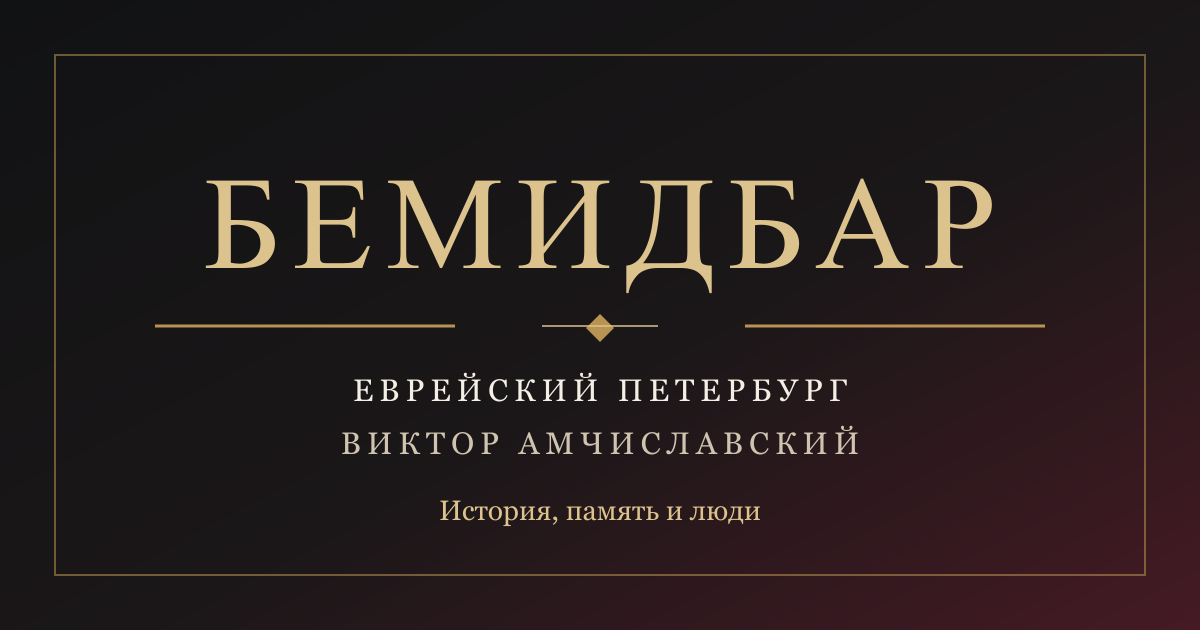
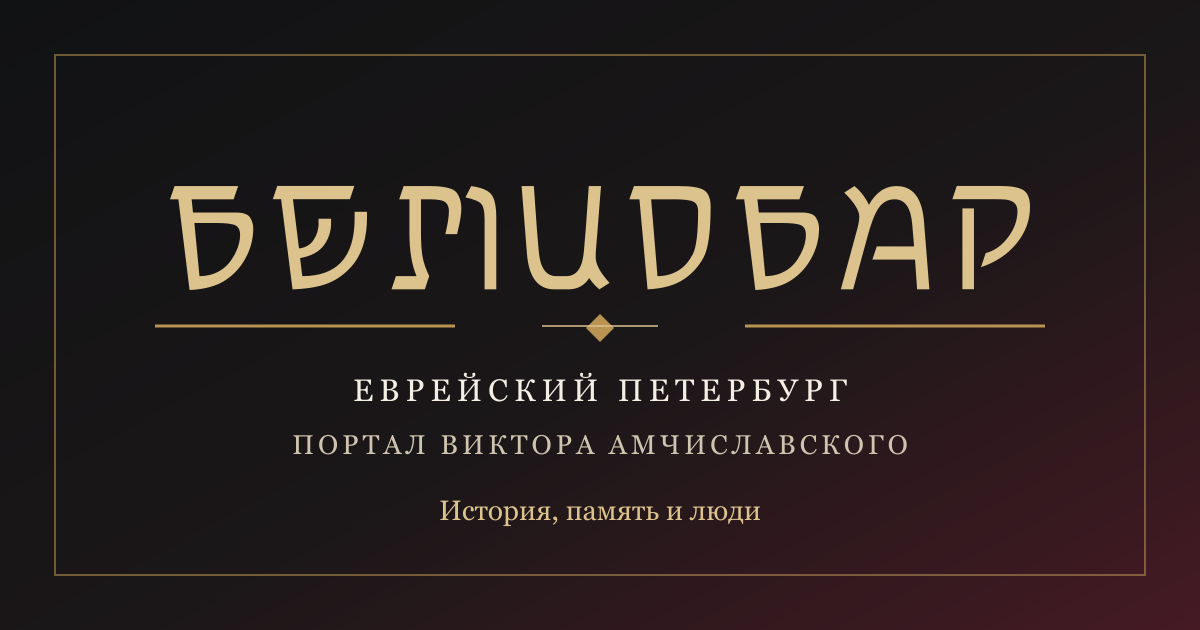
Fix production hero visual QA

Changed region(s): [[0.1233, 0.2714, 0.8633, 0.4825], [0.2467, 0.6635, 0.7708, 0.7238]]

diff --git a/app/globals.css b/app/globals.css
@@ -3182,3 +3182,243 @@ main {
     font-size: 0.92rem;
   }
 }
+
+/* Final production hierarchy and photo safety */
+.site-header {
+  width: min(100%, 1480px);
+  grid-template-columns: minmax(12rem, 17rem) minmax(0, 1fr) auto;
+  gap: 0.8rem;
+  padding: 0.38rem 1.15rem;
+  background: rgba(15, 15, 18, 0.42);
+  border-bottom-color: rgba(220, 194, 141, 0.12);
+  backdrop-filter: blur(12px);
+}
+
+.bemidbar-logo-header {
+  width: min(13.25rem, 34vw);
+}
+
+.nav {
+  gap: 0.38rem;
+}
+
+.nav a {
+  font-size: 0.84rem;
+}
+
+.header-socials {
+  gap: 0.35rem;
+}
+
+.header-socials a,
+.header-socials button {
+  width: 1.82rem;
+  height: 1.82rem;
+}
+
+.hero {
+  grid-template-columns: minmax(0, 42%) minmax(0, 58%);
+  min-height: min(43.5rem, 84vh);
+  padding-top: 8.2rem;
+  padding-bottom: 4.4rem;
+  background: var(--graphite);
+}
+
+.hero::before {
+  background:
+    linear-gradient(90deg, rgba(17, 18, 20, 0.98) 0%, rgba(17, 18, 20, 0.88) 36%, rgba(17, 18, 20, 0.34) 64%, rgba(17, 18, 20, 0.08) 100%),
+    linear-gradient(180deg, rgba(17, 18, 20, 0.34) 0%, transparent 34%, rgba(17, 18, 20, 0.68) 100%);
+}
+
+.hero-media {
+  display: flex;
+  justify-content: flex-end;
+  background: radial-gradient(circle at 78% 42%, rgba(220, 194, 141, 0.18), transparent 32rem);
+}
+
+.hero-media img {
+  object-fit: contain;
+  object-position: center right;
+  padding: 5.4rem 0 2.2rem 34%;
+  filter: grayscale(0.78) sepia(0.28) contrast(0.98) brightness(0.86);
+}
+
+.hero-copy {
+  max-width: 34rem;
+  padding-top: 1rem;
+}
+
+.hero h1:not(.hero-wordmark) {
+  max-width: 14.5ch;
+  color: var(--ivory);
+  font-size: clamp(3.75rem, 5.7vw, 5.85rem);
+  line-height: 0.94;
+  white-space: normal;
+  word-break: normal;
+  overflow-wrap: normal;
+  hyphens: none;
+}
+
+.hero-subline {
+  margin-top: 1.1rem;
+}
+
+.floating-cta {
+  position: fixed;
+  top: auto;
+  right: max(1.25rem, calc((100vw - var(--max)) / 2 + 0.75rem));
+  bottom: 1.35rem;
+  left: auto;
+  width: auto;
+  min-height: 3.05rem;
+  border-radius: 999px;
+  padding: 0.72rem 1.15rem;
+  background: linear-gradient(135deg, #93404b, var(--burgundy));
+  border: 1px solid rgba(220, 194, 141, 0.62);
+  color: var(--ivory);
+  box-shadow: 0 0.85rem 1.8rem rgba(31, 17, 15, 0.22);
+  font-family: var(--font-display), Georgia, serif;
+  font-size: 0.96rem;
+  line-height: 1;
+  text-transform: none;
+}
+
+.status-strip-items span {
+  display: grid;
+  grid-template-columns: auto minmax(0, 1fr);
+  min-height: 5.35rem;
+  align-items: center;
+  gap: 0.95rem;
+  padding: 0.95rem 1.15rem;
+  color: #3e3027;
+  font-size: clamp(0.96rem, 1.05vw, 1.12rem);
+}
+
+.status-strip .ornament-icon {
+  width: 2.25rem;
+  height: 2.25rem;
+  color: var(--old-gold);
+}
+
+.about-hero {
+  background:
+    linear-gradient(135deg, rgba(17, 18, 20, 0.98), rgba(17, 18, 20, 0.9) 62%, rgba(122, 43, 56, 0.3)),
+    var(--graphite);
+}
+
+.about-hero .portrait img {
+  object-fit: contain;
+  object-position: center bottom;
+}
+
+.contact-hero {
+  padding-top: 7.6rem;
+  padding-bottom: 2.5rem;
+}
+
+.contact-hero h1 {
+  font-size: clamp(2.12rem, 3.1vw, 3.2rem);
+}
+
+.contact-section {
+  padding-top: 2.65rem;
+}
+
+.route-card p {
+  -webkit-line-clamp: 2;
+}
+
+@media (max-width: 1280px) {
+  .site-header {
+    grid-template-columns: minmax(11rem, 14.5rem) minmax(0, 1fr) auto;
+  }
+
+  .nav a {
+    font-size: 0.78rem;
+  }
+
+  .hero-media img {
+    padding-left: 38%;
+  }
+}
+
+@media (max-width: 900px) {
+  .site-header {
+    grid-template-columns: 1fr;
+    padding-bottom: 0.55rem;
+  }
+
+  .header-socials {
+    position: absolute;
+    top: 0.55rem;
+    right: 1rem;
+  }
+
+  .hero {
+    grid-template-columns: 1fr;
+    min-height: 39.5rem;
+    padding-top: 9.1rem;
+  }
+
+  .hero-media img {
+    object-fit: contain;
+    object-position: center right;
+    padding: 6.8rem 0 2rem 30%;
+    opacity: 0.72;
+  }
+
+  .hero h1:not(.hero-wordmark) {
+    max-width: 11.2ch;
+    font-size: clamp(3.25rem, 10.5vw, 4.9rem);
+  }
+
+  .status-strip-items {
+    grid-template-columns: repeat(2, minmax(0, 1fr));
+  }
+}
+
+@media (max-width: 620px) {
+  .bemidbar-logo-header {
+    width: min(10.8rem, 62vw);
+  }
+
+  .header-socials {
+    display: flex;
+  }
+
+  .nav {
+    padding-right: 0;
+  }
+
+  .hero {
+    min-height: 38rem;
+    padding-top: 8.7rem;
+  }
+
+  .hero h1:not(.hero-wordmark) {
+    max-width: 10.4ch;
+    font-size: clamp(2.95rem, 12vw, 3.55rem);
+  }
+
+  .status-strip-items {
+    grid-template-columns: 1fr;
+  }
+
+  .status-strip .ornament-icon {
+    width: 1.85rem;
+    height: 1.85rem;
+  }
+
+  .floating-cta {
+    right: 1rem;
+    bottom: 1rem;
+    left: auto;
+    min-height: 2.85rem;
+    padding: 0.68rem 1rem;
+  }
+
+  .hero-media img {
+    padding: 8.2rem 0 2.2rem 16%;
+    opacity: 0.62;
+  }
+}

diff --git a/app/(site)/page.tsx b/app/(site)/page.tsx
@@ -2,7 +2,6 @@ import type { Metadata } from "next";
 import Image from "next/image";
 import Link from "next/link";
 import { ArticleCard } from "@/components/article-card";
-import { BemidbarLogo } from "@/components/bemidbar-logo";
 import { ContactBlock } from "@/components/contact-block";
 import { JsonLd } from "@/components/json-ld";
 import { OrnamentIcon, type OrnamentIconName } from "@/components/ornament-icon";
@@ -99,8 +98,7 @@ export default function HomePage() {
         </div>
         <div className="hero-copy">
           <p className="eyebrow">Интеллектуальный портал</p>
-          <h1 className="sr-only">Бемидбар — Еврейский Петербург</h1>
-          <BemidbarLogo variant="hero" theme="dark" showSubtitle />
+          <h1>Еврейский Петербург</h1>
           <p className="hero-subline">История, память и люди.</p>
           <p className="lead">
             Авторские экскурсии, лекции и исследования Виктора Амчиславского о

diff --git a/components/floating-cta.tsx b/components/floating-cta.tsx
@@ -3,7 +3,6 @@ import Link from "next/link";
 export function FloatingCta() {
   return (
     <Link className="floating-cta" href="/contacts?tema=Экскурсия">
-      <span aria-hidden="true">□</span>
       Оставить заявку
     </Link>
   );

diff --git a/BRAND_ASSETS.md b/BRAND_ASSETS.md
@@ -10,6 +10,8 @@ The source page states that Hummus is free for any purpose, including commercial
 - `public/fonts/hummus/hummus.ttf`
 - `public/fonts/hummus/README.md`
 
+The visible `БЕМИДБАР` wordmark in the SVG and PNG logo files is converted to vector outlines from Hummus, so the logo does not fall back to a system font when SVG font loading is unavailable.
+
 ## Logo Files
 
 - `public/brand/bemidbar-logo.svg` - default full logo with subtitle.
